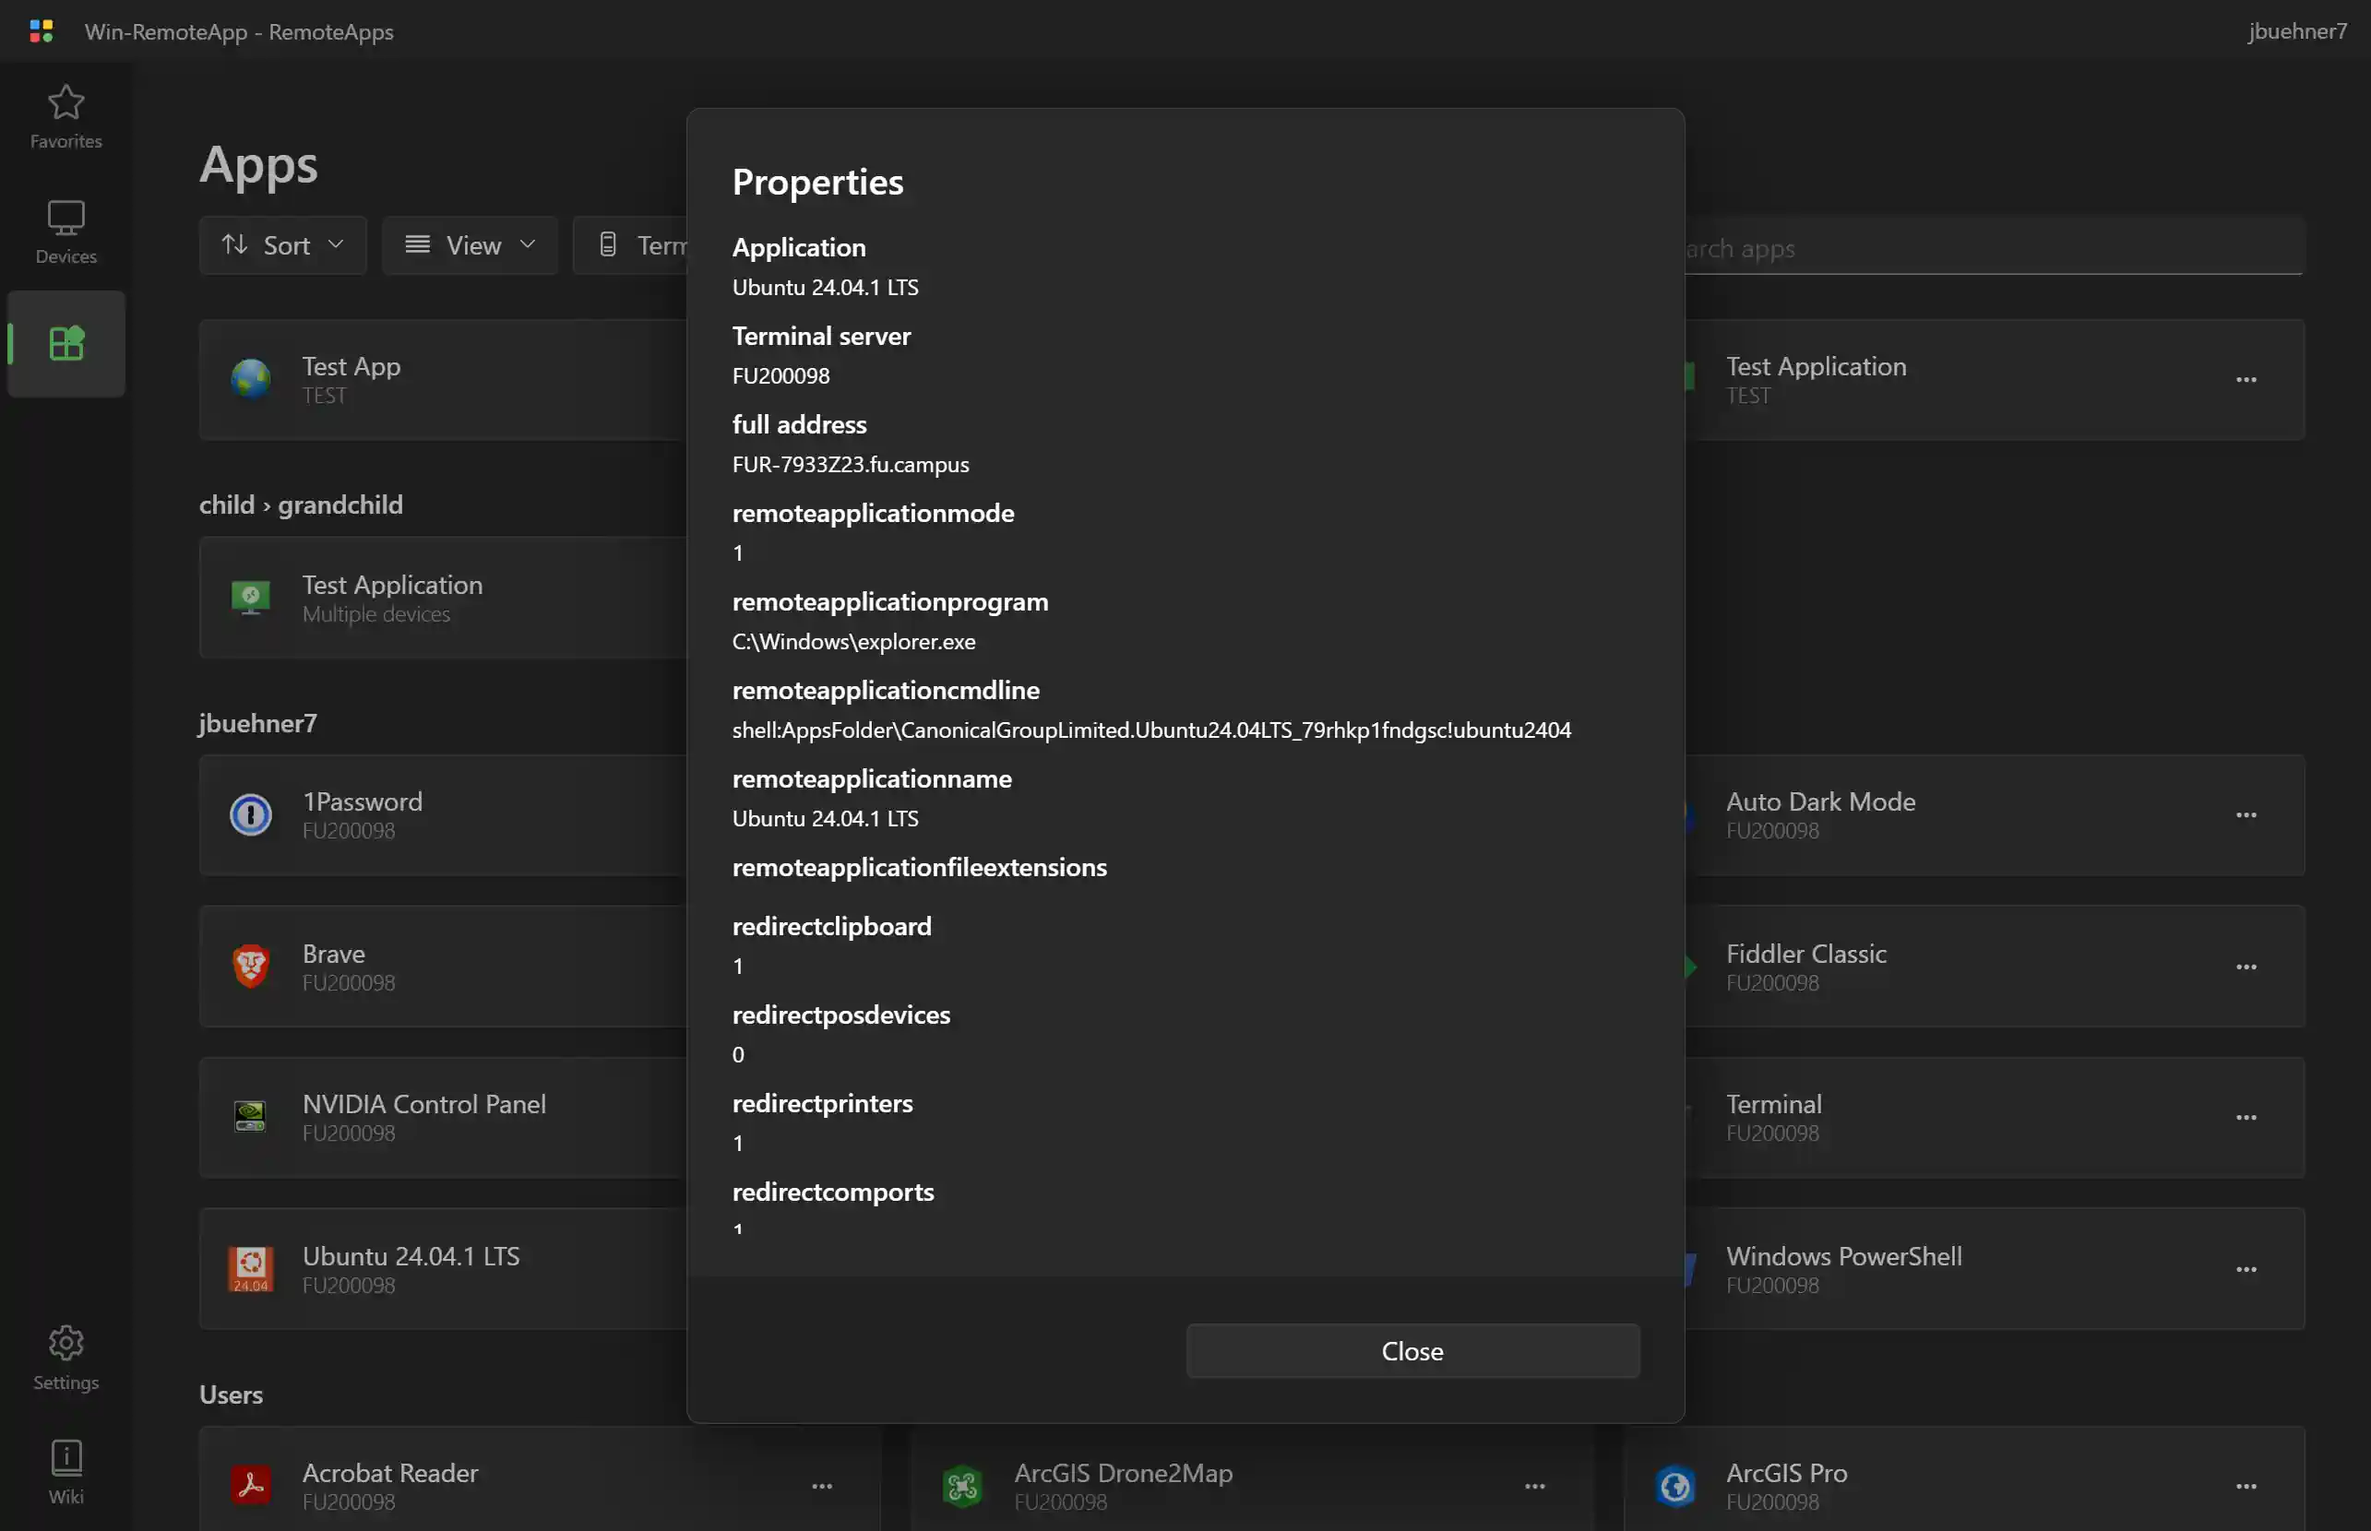
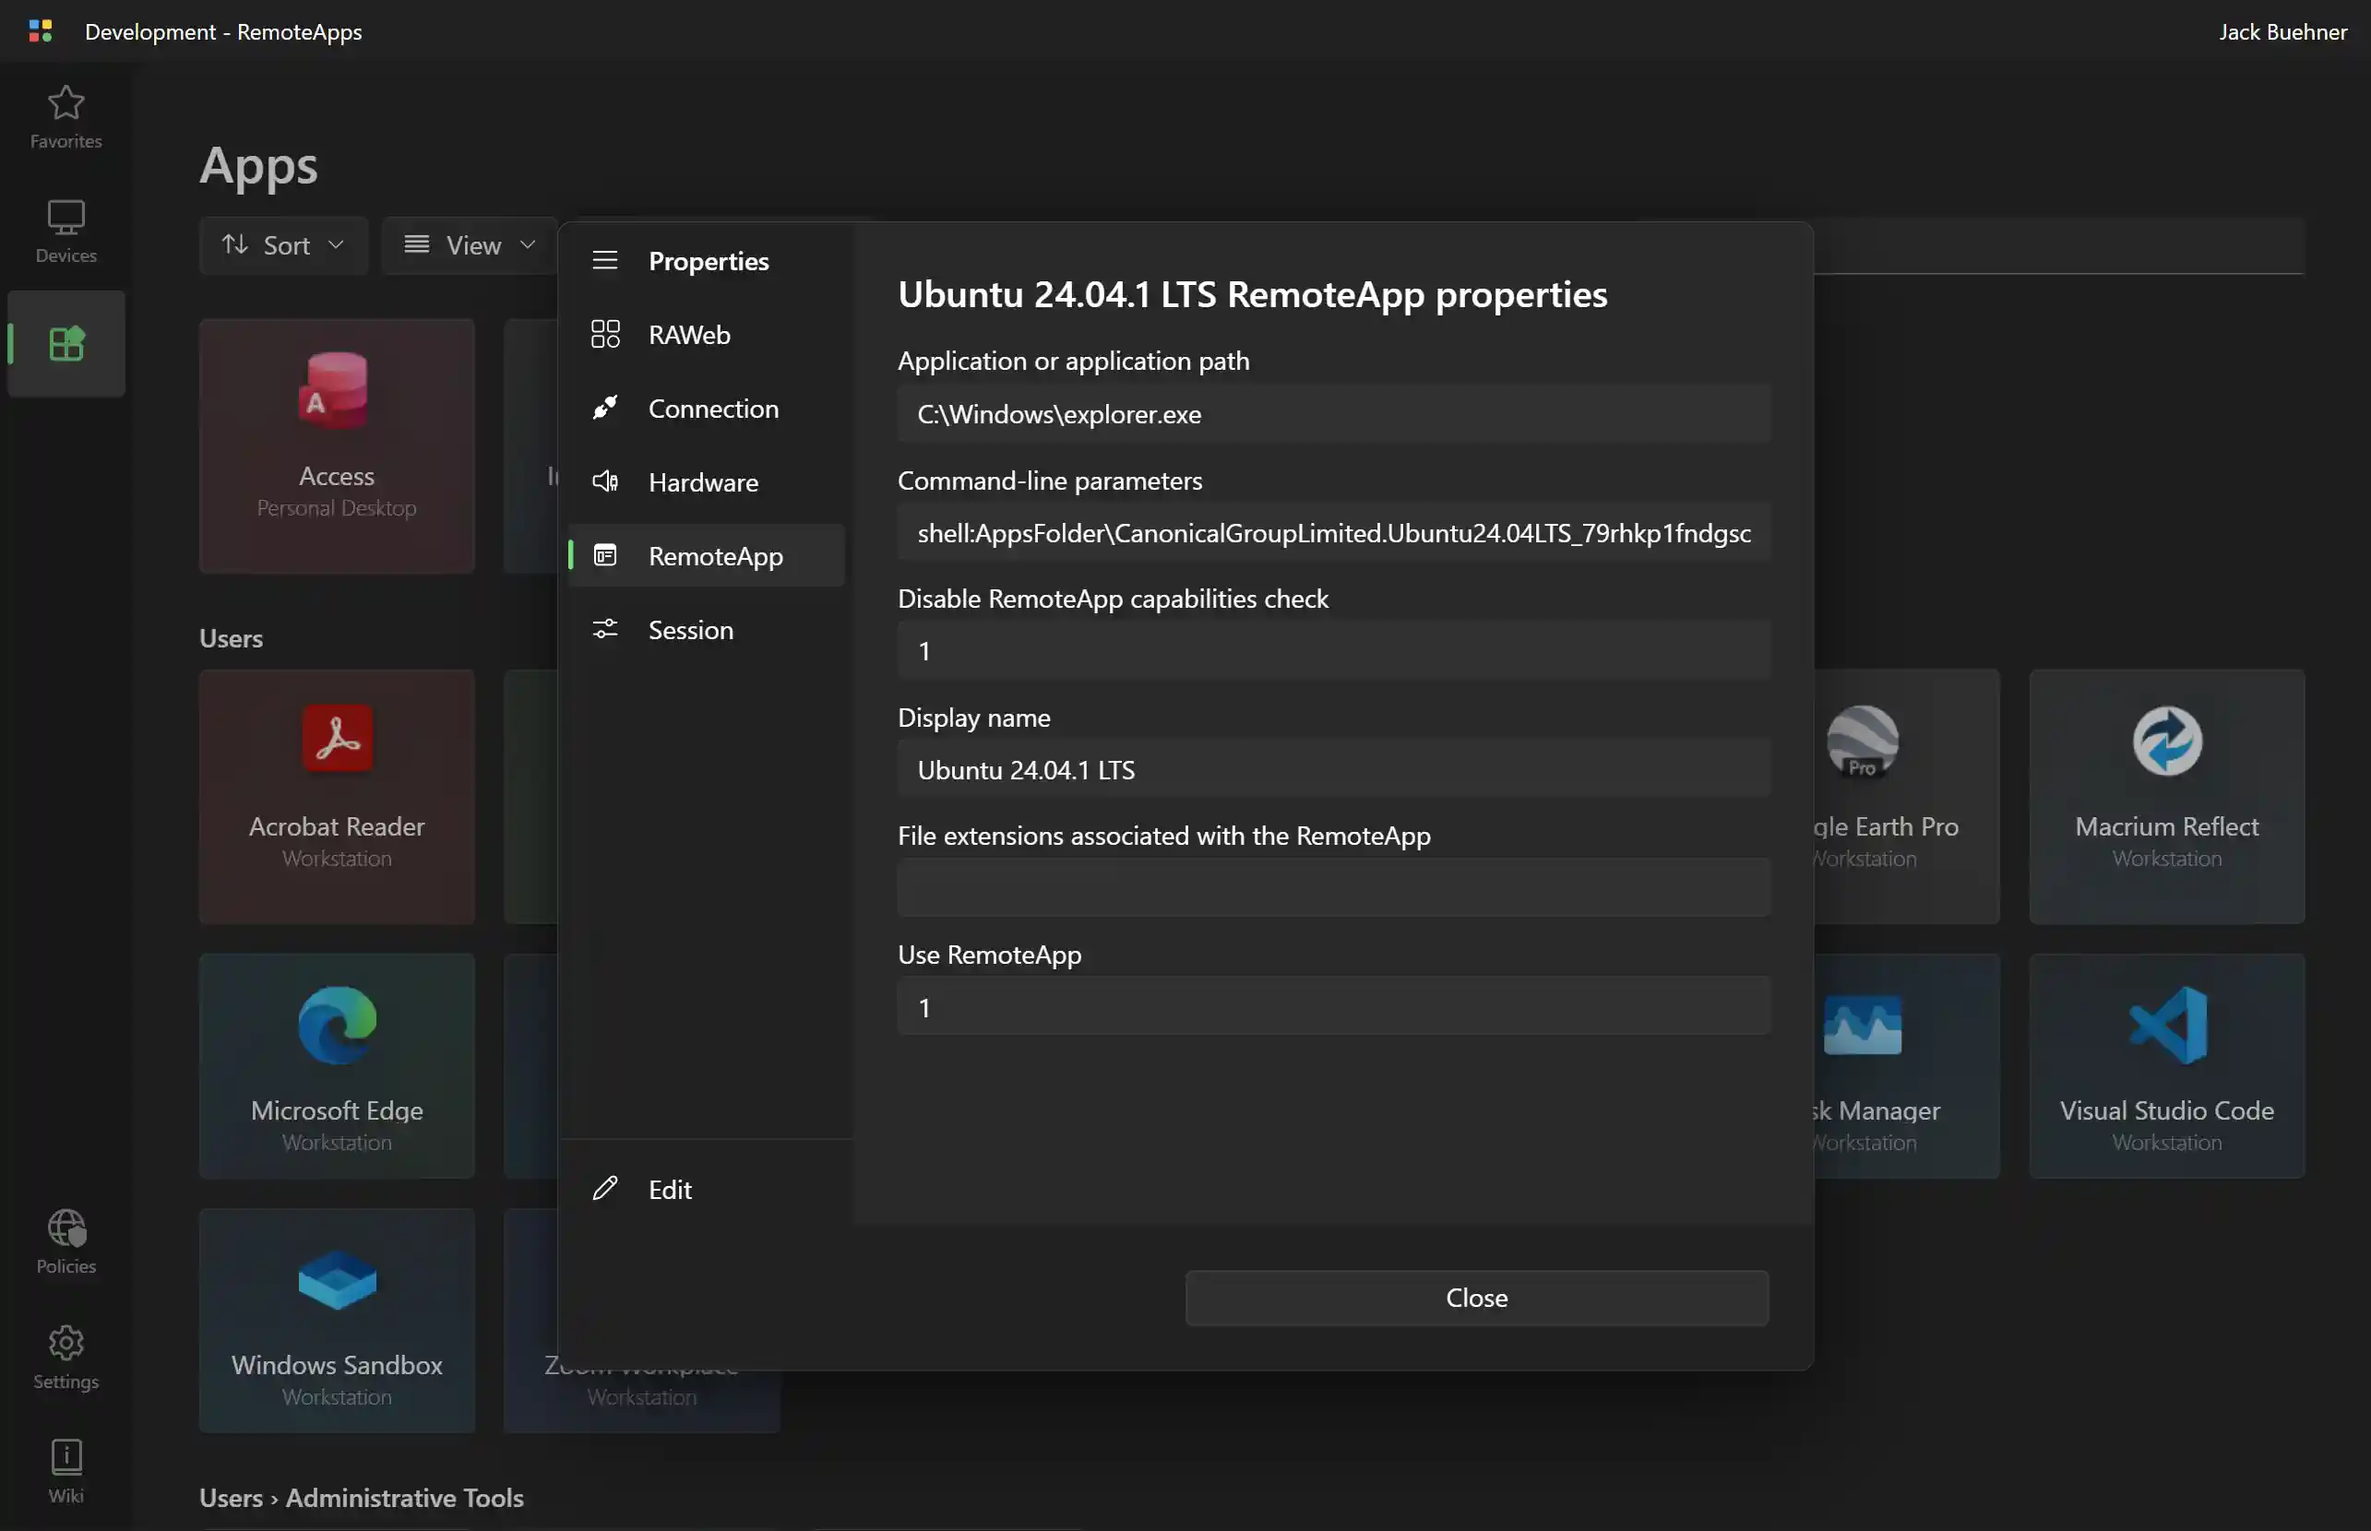
docs: update screenshots and README with connection methods dialog, new RDP file properties dialog, and RemoteApps and desktops manager

diff --git a/README.md b/README.md
@@ -28,6 +28,7 @@ To set up RemoteApps on your PC without RAWeb, try [RemoteApp Tool](https://gith
 - Fully-compliant Workspace (webfeed) feature to place your RemoteApps and desktop connections in:
   - The Start Menu of Windows clients
   - The Android/iOS/iPadOS/MacOS Windows app
+- Web client connection method[^webclient]
 - File type associations on webfeed clients
 - Different RemoteApps for different users and groups
 - A setup script for easy installation
@@ -38,6 +39,8 @@ To set up RemoteApps on your PC without RAWeb, try [RemoteApp Tool](https://gith
     On **macOS**, install [Windows App](https://apps.apple.com/us/app/windows-app/id1295203466) from the Mac App Store. \
     On **iOS** or **iPadOS**, install [Windows App Mobile](https://apps.apple.com/us/app/windows-app-mobile/id714464092) from the App Store. \
     Not supported on **Android**.
+
+[^webclient]: The web client requires RAWeb to be installed on a server with Windows Subsystem for Linux 2 (WSL2).
 
 ## Installation
 
@@ -111,9 +114,29 @@ A web interface for your RemoteApps and desktops:
 </picture>
 
 <picture>
+  <source media="(prefers-color-scheme: dark)" srcset="frontend/lib/assets/connection-method-picker_dark.webp">
+  <source media="(prefers-color-scheme: light)" srcset="frontend/lib/assets/connection-method-picker_light.webp">
+  <img src="frontend/lib/assets/connection-method-picker_light.webp" alt="A screenshot of the connection method picker dialog in RAWeb, which appears when selecting an app or desktop if there are multiple connection methods permitted. Common connection methods are download an RDP file, launch via rdp://, and connection in browser.">
+</picture>
+
+<picture>
   <source media="(prefers-color-scheme: dark)" srcset="frontend/lib/assets/app-properties_dark.webp">
   <source media="(prefers-color-scheme: light)" srcset="frontend/lib/assets/app-properties_light.webp">
   <img src="frontend/lib/assets/app-properties_light.webp" alt="A screenshot of the properties dialog in RAWeb, which shows the contents of the RDP file">
+</picture>
+
+Add and edit RemoteApps and desktops directly from the web interface:
+
+<picture>
+  <source media="(prefers-color-scheme: dark)" srcset="frontend/lib/assets/app-discover_dark.webp">
+  <source media="(prefers-color-scheme: light)" srcset="frontend/lib/assets/app-discover_light.webp">
+  <img src="frontend/lib/assets/app-discover_light.webp" alt="A screenshot of the app discovery dialog in RAWeb, which shows the installed apps on the host server and allows you to add them to RAWeb">
+</picture>
+
+<picture>
+  <source media="(prefers-color-scheme: dark)" srcset="frontend/lib/assets/desktop-editor_dark.webp">
+  <source media="(prefers-color-scheme: light)" srcset="frontend/lib/assets/desktop-editor_light.webp">
+  <img src="frontend/lib/assets/desktop-editor_light.webp" alt="A screenshot of the desktop editor dialog in RAWeb, which allows you to edit the appearance, folder, security, and RDP file settings for a desktop connection in RAWeb">
 </picture>
 
 Webfeed puts RemoteApps in Windows client Start Menu:

diff --git a/frontend/docs/index.md b/frontend/docs/index.md
@@ -28,6 +28,7 @@ To set up RemoteApps on your PC without RAWeb, try [RemoteApp Tool](https://gith
 - Fully-compliant Workspace (webfeed) feature to place your RemoteApps and desktop connections in:
   - The Start Menu of Windows clients
   - The Android/iOS/iPadOS/MacOS Windows app
+- Web client connection method[^webclient]
 - File type associations on webfeed clients
 - Different RemoteApps for different users and groups
 - A setup script for easy installation
@@ -38,6 +39,8 @@ To set up RemoteApps on your PC without RAWeb, try [RemoteApp Tool](https://gith
     On **macOS**, install [Windows App](https://apps.apple.com/us/app/windows-app/id1295203466) from the Mac App Store. \
     On **iOS** or **iPadOS**, install [Windows App Mobile](https://apps.apple.com/us/app/windows-app-mobile/id714464092) from the App Store. \
     Not supported on **Android**.
+
+[^webclient]: The web client requires RAWeb to be installed on a server with Windows Subsystem for Linux 2 (WSL2).
 
 ## Get started & installation
 
@@ -74,9 +77,29 @@ A web interface for your RemoteApps and desktops:
 </picture>
 
 <picture>
+  <source media="(prefers-color-scheme: dark)" srcset="../lib/assets/connection-method-picker_dark.webp">
+  <source media="(prefers-color-scheme: light)" srcset="../lib/assets/connection-method-picker_light.webp">
+  <img src="../lib/assets/connection-method-picker_light.webp" alt="A screenshot of the connection method picker dialog in RAWeb, which appears when selecting an app or desktop if there are multiple connection methods permitted. Common connection methods are download an RDP file, launch via rdp://, and connection in browser." height="532">
+</picture>
+
+<picture>
   <source media="(prefers-color-scheme: dark)" srcset="../lib/assets/app-properties_dark.webp">
   <source media="(prefers-color-scheme: light)" srcset="../lib/assets/app-properties_light.webp">
   <img src="../lib/assets/app-properties_light.webp" alt="A screenshot of the properties dialog in RAWeb, which shows the contents of the RDP file" height="532">
+</picture>
+
+Add and edit RemoteApps and desktops directly from the web interface:
+
+<picture>
+  <source media="(prefers-color-scheme: dark)" srcset="../lib/assets/app-discover_dark.webp">
+  <source media="(prefers-color-scheme: light)" srcset="../lib/assets/app-discover_light.webp">
+  <img src="../lib/assets/app-discover_light.webp" alt="A screenshot of the app discovery dialog in RAWeb, which shows the installed apps on the host server and allows you to add them to RAWeb" height="532">
+</picture>
+
+<picture>
+  <source media="(prefers-color-scheme: dark)" srcset="../lib/assets/desktop-editor_dark.webp">
+  <source media="(prefers-color-scheme: light)" srcset="../lib/assets/desktop-editor_light.webp">
+  <img src="../lib/assets/desktop-editor_light.webp" alt="A screenshot of the desktop editor dialog in RAWeb, which allows you to edit the appearance, folder, security, and RDP file settings for a desktop connection in RAWeb" height="532">
 </picture>
 
 Webfeed puts RemoteApps in Windows client Start Menu:
